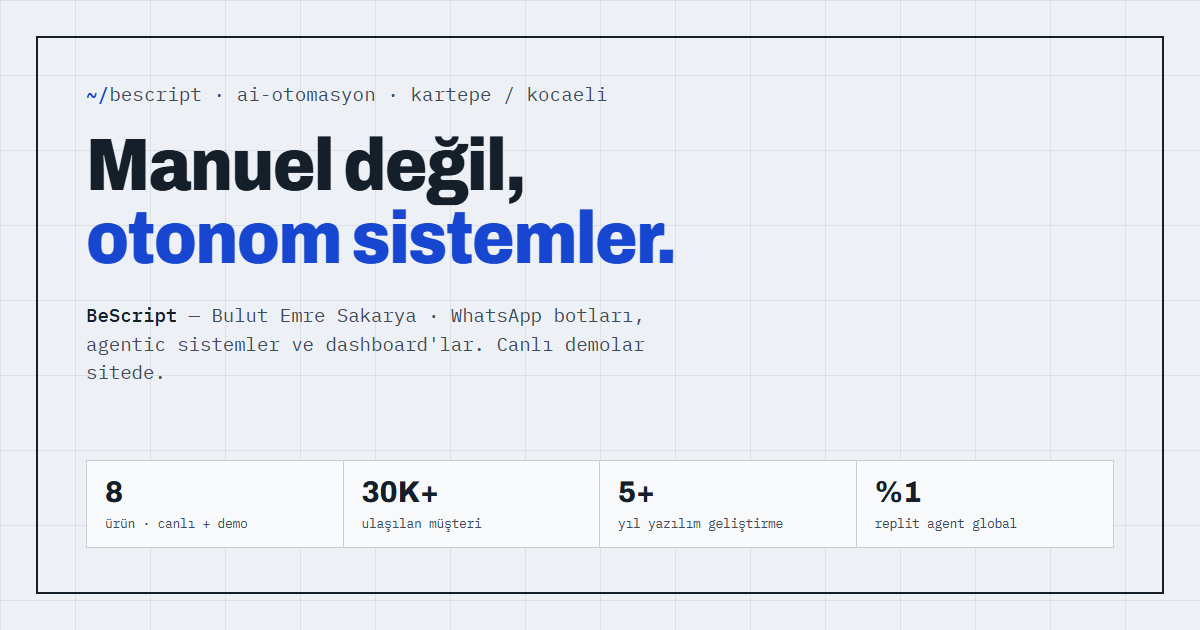
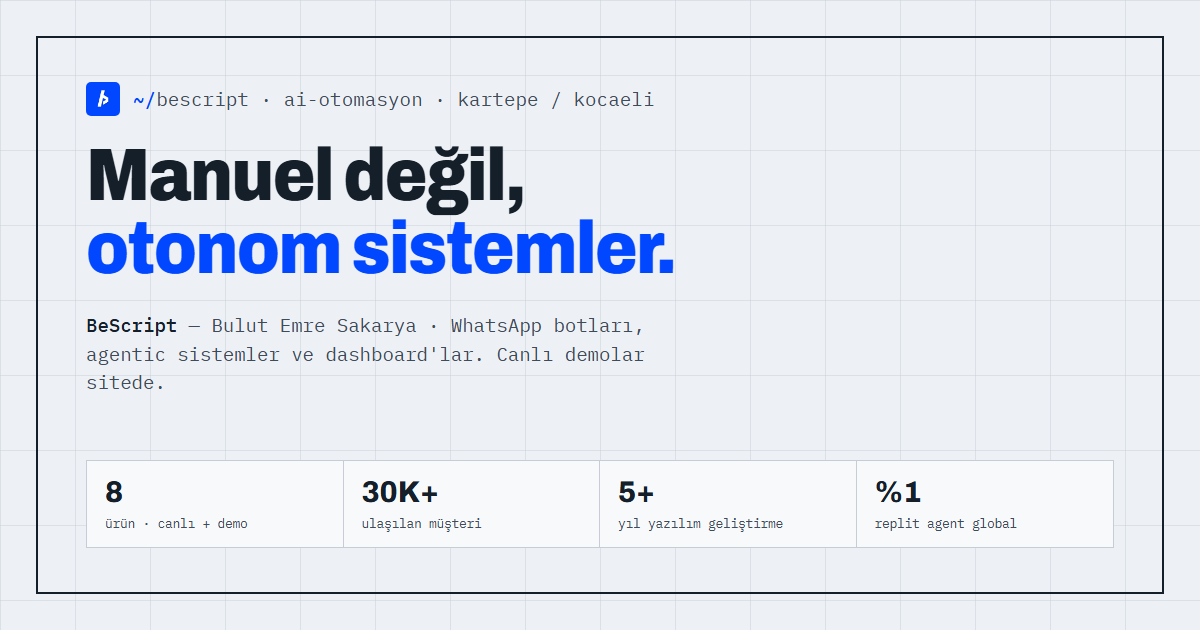
Gercek BeScript logosunu ve marka rengini siteye isle
Site bugune kadar yer tutucu bir glif kullaniyordu; Play Console icin
uretilen gercek logo artik her yerde. favicon.ico (16/32/48),
apple-touch-icon (180), PWA ikonlari (192/512) ve favicon.svg kaynak
512'likten yeniden uretildi. favicon.svg'nin basligi da "Bulut Emre
Sakarya" yerine "BeScript".

Tema rengi #0B4DFF yerine logonun tam tonu olan #0047FF (25 dosya +
manifest). Selfarma demo sayfasinin kendi tema rengi korundu.

og gorseli logoyla ve yeni marka rengiyle yeniden uretildi.
Kullanilmayan assets/logo/brand.svg de guncellendi.

Changed region(s): [[0.0617, 0.2111, 0.5858, 0.4524], [0.0617, 0.4825, 0.555, 0.6333], [0.0617, 0.1206, 0.555, 0.181]]

diff --git a/404.html b/404.html
@@ -9,7 +9,7 @@
 <link rel="icon" href="/favicon.svg" type="image/svg+xml">
 <link rel="apple-touch-icon" href="/apple-touch-icon.png">
 <link rel="manifest" href="/site.webmanifest">
-<meta name="theme-color" content="#0B4DFF">
+<meta name="theme-color" content="#0047FF">
 <meta name="apple-mobile-web-app-title" content="bescript">
 <link href="https://fonts.googleapis.com/css2?family=Archivo:wdth,wght@62..125,400..900&family=IBM+Plex+Mono:wght@400;500&display=swap" rel="stylesheet">
 <style>

diff --git a/bocu/index.html b/bocu/index.html
@@ -10,7 +10,7 @@
 <link rel="icon" href="/favicon.svg" type="image/svg+xml">
 <link rel="apple-touch-icon" href="/apple-touch-icon.png">
 <link rel="manifest" href="/site.webmanifest">
-<meta name="theme-color" content="#0B4DFF">
+<meta name="theme-color" content="#0047FF">
 <meta name="apple-mobile-web-app-title" content="bescript">
 <meta property="og:type" content="website">
 <meta property="og:locale" content="tr_TR">

diff --git a/cozumler/chatbot/index.html b/cozumler/chatbot/index.html
@@ -10,7 +10,7 @@
 <link rel="icon" href="/favicon.svg" type="image/svg+xml">
 <link rel="apple-touch-icon" href="/apple-touch-icon.png">
 <link rel="manifest" href="/site.webmanifest">
-<meta name="theme-color" content="#0B4DFF">
+<meta name="theme-color" content="#0047FF">
 <meta name="apple-mobile-web-app-title" content="bescript">
 <meta property="og:type" content="website">
 <meta property="og:locale" content="tr_TR">

diff --git a/cozumler/dashboard/index.html b/cozumler/dashboard/index.html
@@ -10,7 +10,7 @@
 <link rel="icon" href="/favicon.svg" type="image/svg+xml">
 <link rel="apple-touch-icon" href="/apple-touch-icon.png">
 <link rel="manifest" href="/site.webmanifest">
-<meta name="theme-color" content="#0B4DFF">
+<meta name="theme-color" content="#0047FF">
 <meta name="apple-mobile-web-app-title" content="bescript">
 <meta property="og:type" content="website">
 <meta property="og:locale" content="tr_TR">

diff --git a/cozumler/entegrasyon/index.html b/cozumler/entegrasyon/index.html
@@ -10,7 +10,7 @@
 <link rel="icon" href="/favicon.svg" type="image/svg+xml">
 <link rel="apple-touch-icon" href="/apple-touch-icon.png">
 <link rel="manifest" href="/site.webmanifest">
-<meta name="theme-color" content="#0B4DFF">
+<meta name="theme-color" content="#0047FF">
 <meta name="apple-mobile-web-app-title" content="bescript">
 <meta property="og:type" content="website">
 <meta property="og:locale" content="tr_TR">

diff --git a/cozumler/mobil/index.html b/cozumler/mobil/index.html
@@ -10,7 +10,7 @@
 <link rel="icon" href="/favicon.svg" type="image/svg+xml">
 <link rel="apple-touch-icon" href="/apple-touch-icon.png">
 <link rel="manifest" href="/site.webmanifest">
-<meta name="theme-color" content="#0B4DFF">
+<meta name="theme-color" content="#0047FF">
 <meta name="apple-mobile-web-app-title" content="bescript">
 <meta property="og:type" content="website">
 <meta property="og:locale" content="tr_TR">

diff --git a/cozumler/qrmenu/index.html b/cozumler/qrmenu/index.html
@@ -10,7 +10,7 @@
 <link rel="icon" href="/favicon.svg" type="image/svg+xml">
 <link rel="apple-touch-icon" href="/apple-touch-icon.png">
 <link rel="manifest" href="/site.webmanifest">
-<meta name="theme-color" content="#0B4DFF">
+<meta name="theme-color" content="#0047FF">
 <meta name="apple-mobile-web-app-title" content="bescript">
 <meta property="og:type" content="website">
 <meta property="og:locale" content="tr_TR">

diff --git a/cozumler/telegram/index.html b/cozumler/telegram/index.html
@@ -10,7 +10,7 @@
 <link rel="icon" href="/favicon.svg" type="image/svg+xml">
 <link rel="apple-touch-icon" href="/apple-touch-icon.png">
 <link rel="manifest" href="/site.webmanifest">
-<meta name="theme-color" content="#0B4DFF">
+<meta name="theme-color" content="#0047FF">
 <meta name="apple-mobile-web-app-title" content="bescript">
 <meta property="og:type" content="website">
 <meta property="og:locale" content="tr_TR">

diff --git a/cozumler/veri/index.html b/cozumler/veri/index.html
@@ -10,7 +10,7 @@
 <link rel="icon" href="/favicon.svg" type="image/svg+xml">
 <link rel="apple-touch-icon" href="/apple-touch-icon.png">
 <link rel="manifest" href="/site.webmanifest">
-<meta name="theme-color" content="#0B4DFF">
+<meta name="theme-color" content="#0047FF">
 <meta name="apple-mobile-web-app-title" content="bescript">
 <meta property="og:type" content="website">
 <meta property="og:locale" content="tr_TR">

diff --git a/cv/index.html b/cv/index.html
@@ -10,7 +10,7 @@
 <link rel="icon" href="/favicon.svg" type="image/svg+xml">
 <link rel="apple-touch-icon" href="/apple-touch-icon.png">
 <link rel="manifest" href="/site.webmanifest">
-<meta name="theme-color" content="#0B4DFF">
+<meta name="theme-color" content="#0047FF">
 <meta name="apple-mobile-web-app-title" content="bescript">
 <meta property="og:type" content="profile">
 <meta property="og:locale" content="tr_TR">

diff --git a/dashboard/index.html b/dashboard/index.html
@@ -10,7 +10,7 @@
 <link rel="icon" href="/favicon.svg" type="image/svg+xml">
 <link rel="apple-touch-icon" href="/apple-touch-icon.png">
 <link rel="manifest" href="/site.webmanifest">
-<meta name="theme-color" content="#0B4DFF">
+<meta name="theme-color" content="#0047FF">
 <meta name="apple-mobile-web-app-title" content="bescript">
 <meta property="og:type" content="website">
 <meta property="og:locale" content="tr_TR">

diff --git a/hakkinda/index.html b/hakkinda/index.html
@@ -10,7 +10,7 @@
 <link rel="icon" href="/favicon.svg" type="image/svg+xml">
 <link rel="apple-touch-icon" href="/apple-touch-icon.png">
 <link rel="manifest" href="/site.webmanifest">
-<meta name="theme-color" content="#0B4DFF">
+<meta name="theme-color" content="#0047FF">
 <meta name="apple-mobile-web-app-title" content="bescript">
 <meta property="og:type" content="profile">
 <meta property="og:locale" content="tr_TR">
